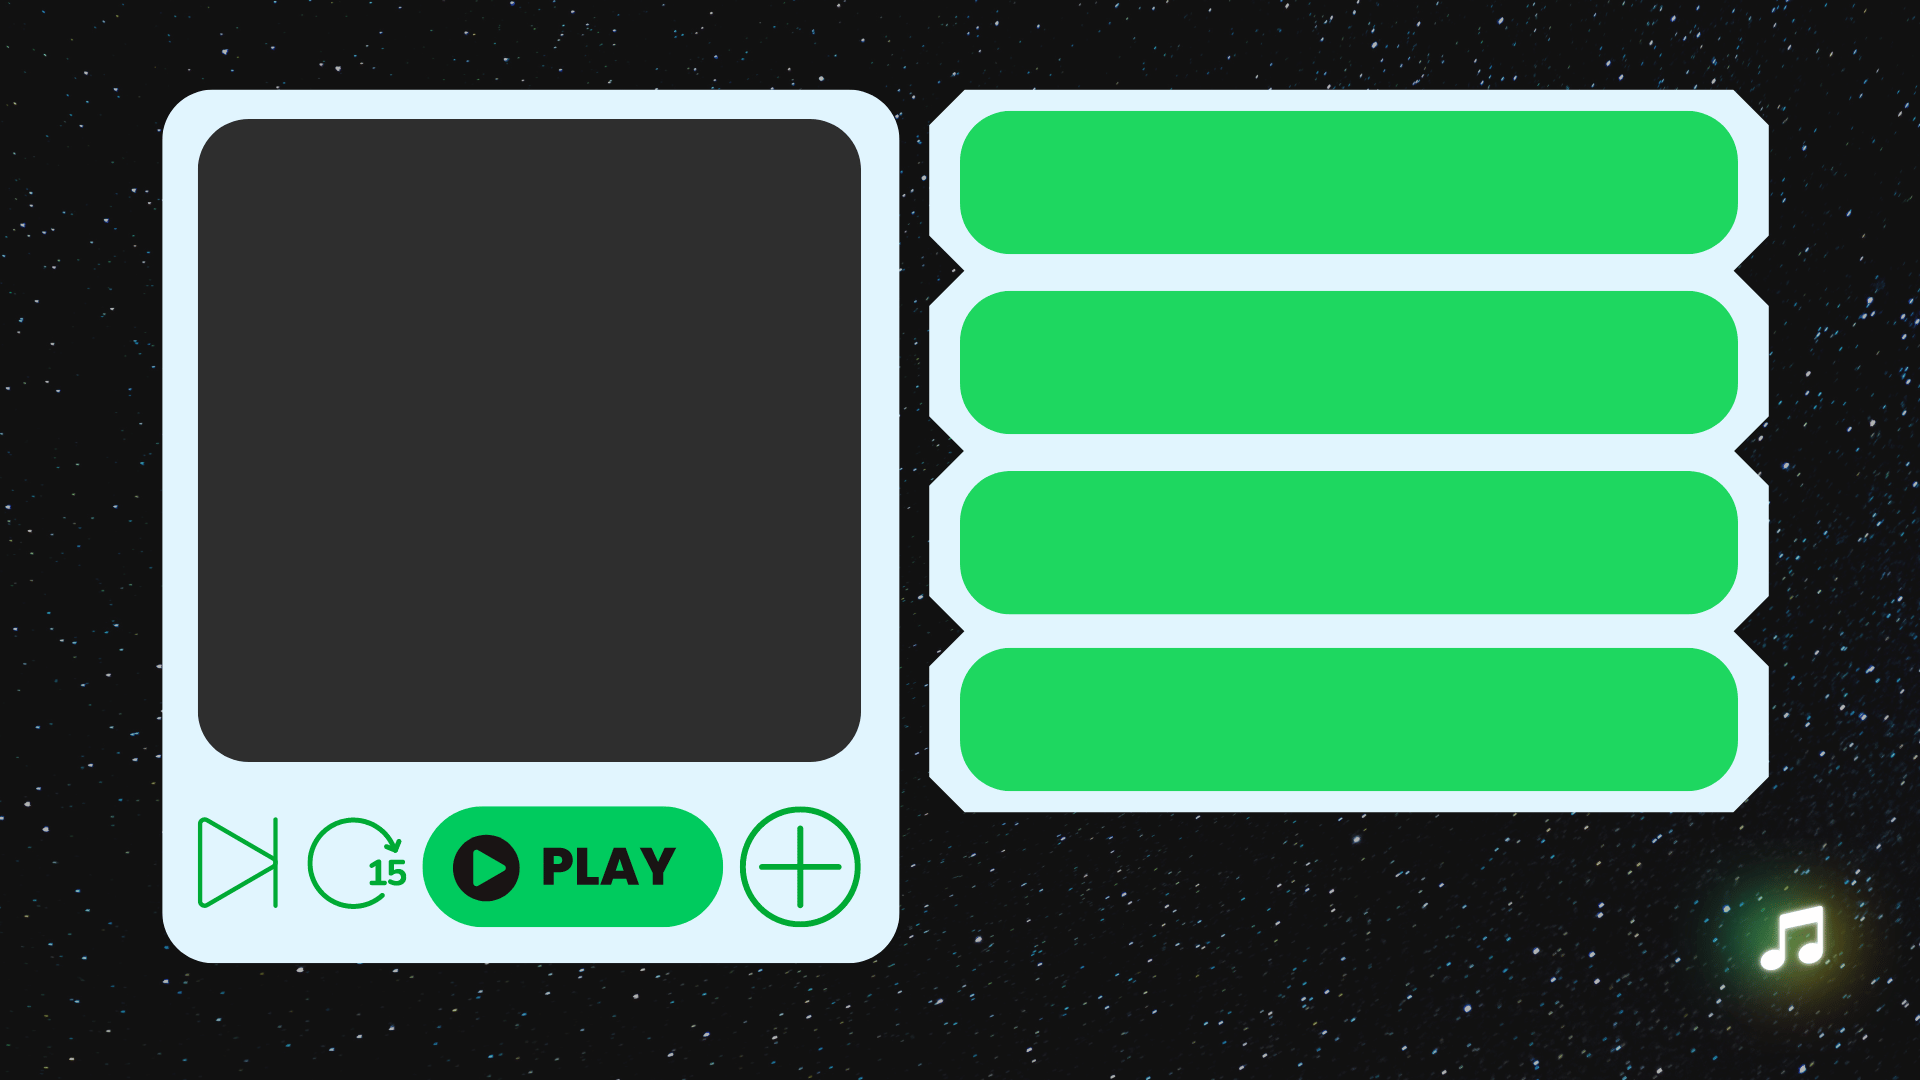
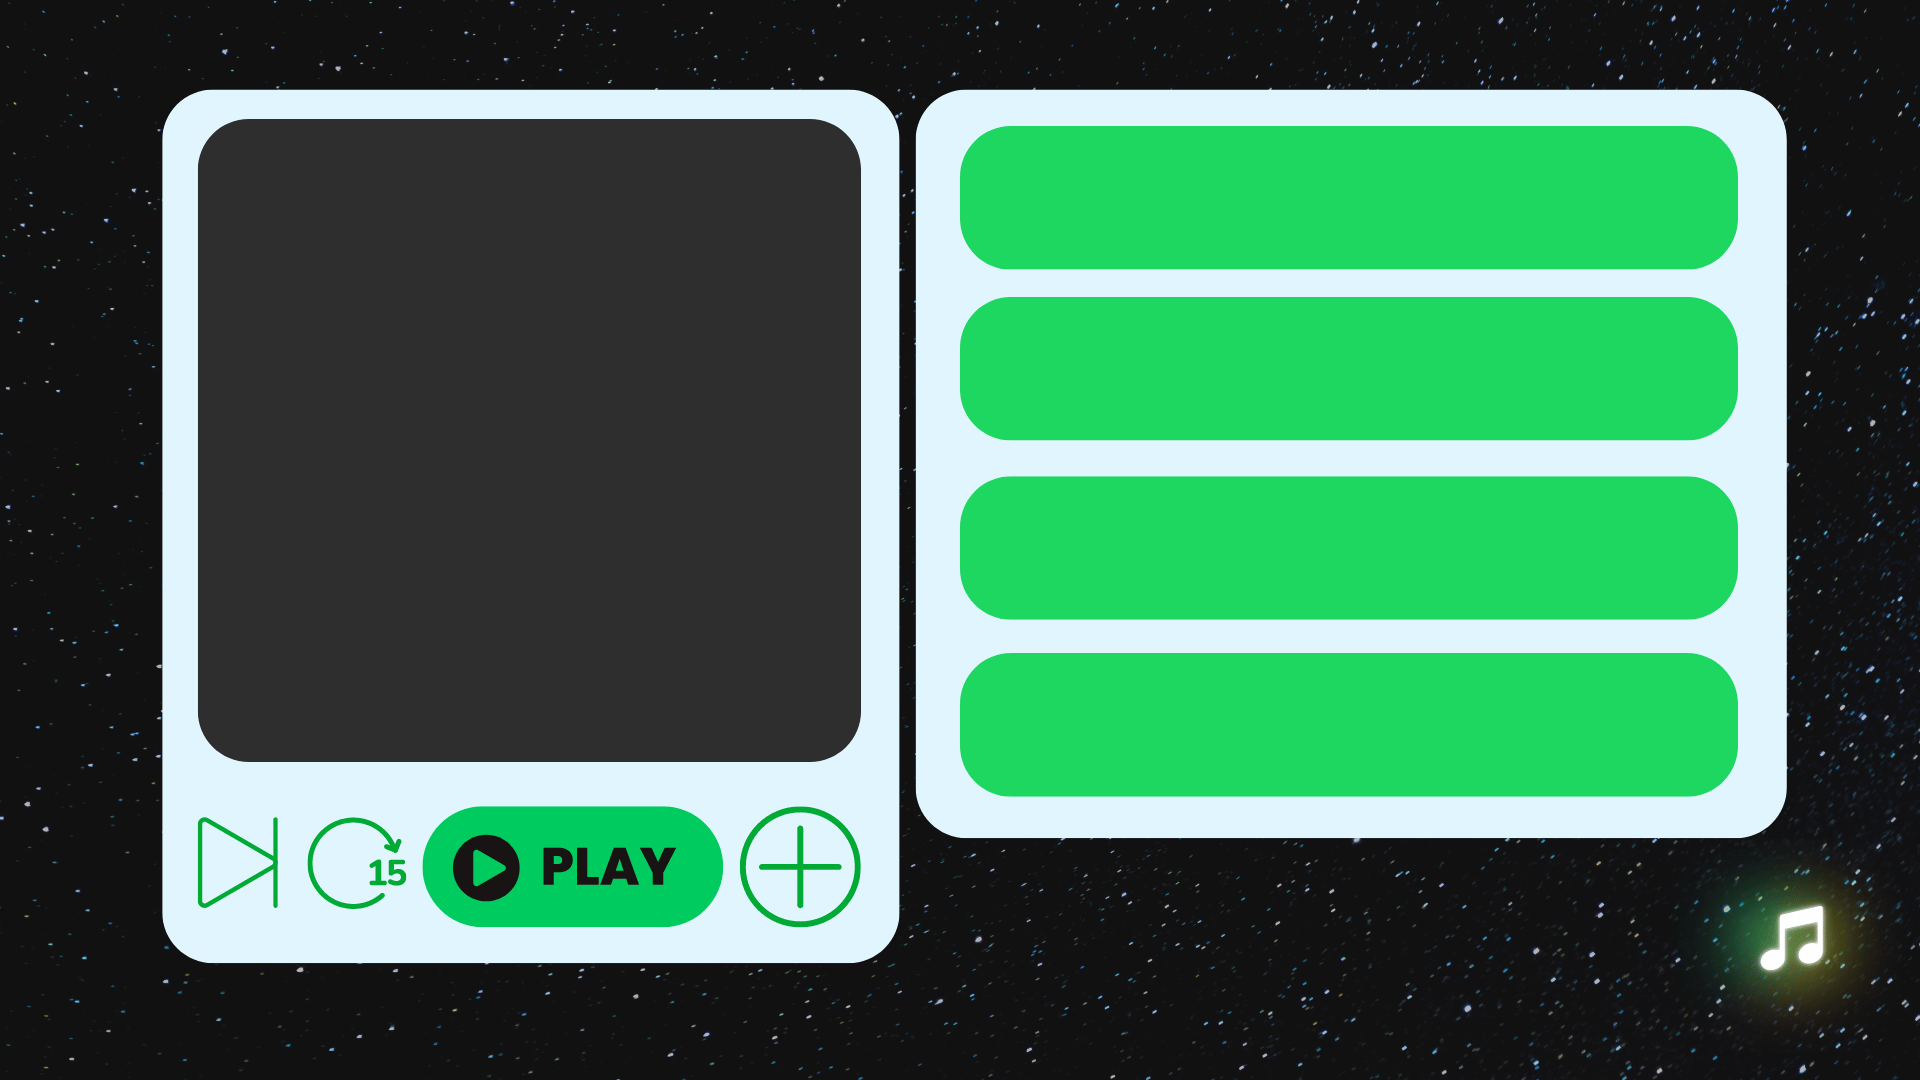
Added spotify explorer

Changed region(s): [[0.4688, 0.0917, 0.9375, 0.7944]]

diff --git a/src/index.tsx b/src/index.tsx
@@ -567,6 +567,7 @@ app.frame('/farcaster-casts-details', async (c) => {
 app.frame("/spotify-explorer", async (c) => {
   const { buttonValue, inputText, frameData, status } = c
 
+  let query;
   let artist;
   let songCover;
   let songName;
@@ -582,7 +583,12 @@ app.frame("/spotify-explorer", async (c) => {
   const time = new Date().getTime();
 
   if (status === "response") {
-      const query = buttonValue === "random" ? generatedWords : inputText || "Telk Qadeya";
+      if (!buttonValue?.startsWith('next-page-')) {
+        query = buttonValue === "random" ? generatedWords : inputText || "Telk Qadeya";
+      } else {
+        query = buttonValue?.split('-')[3];
+      }
+
       const options = {
         method: 'GET',
         url: 'https://spotify23.p.rapidapi.com/search/',
@@ -601,7 +607,8 @@ app.frame("/spotify-explorer", async (c) => {
       
       try {
         const response = await axios.request(options);
-        const songData = response.data.topResults.items[0].data;
+        const indexOfData = buttonValue === "random" || buttonValue === "search" ? 0 :  buttonValue?.startsWith('next-page-2-') ? 2 : 1;
+        const songData = response.data.topResults.items[indexOfData].data;
         const songNameData = (songData.name).length > 13 ? (songData.name).slice(0, 12) + '...' : songData.name;
         const songCoverURL = songData.albumOfTrack.coverArt.sources[0].url;
         const songDurationData = songData.duration.totalMilliseconds;
@@ -631,15 +638,25 @@ app.frame("/spotify-explorer", async (c) => {
   }
    
    const buttons = status === 'initial' ? [
-      <TextInput placeholder="Enter song name, artist or album" />,
+      <TextInput placeholder="Enter Song name" />,
       <Button value={"search"}>Search</Button>,
       <Button value={"random"}>Random Song</Button>,
-   ] : [
+   ] : buttonValue?.startsWith('next-page-') ?
+           buttonValue.startsWith('next-page-1') ?   [
+             <Button.Link href={spotifyLink}>Listen on Spotify</Button.Link>,
+             <Button value={`next-page-2-${query}`}>Next</Button>,
+             <Button.Reset>Reset</Button.Reset>,
+          ] : [
+             <Button.Link href={spotifyLink}>Listen on Spotify</Button.Link>,
+             <Button.Reset>Reset</Button.Reset>,
+          ]
+   : [
       <Button.Link href={spotifyLink}>Listen on Spotify</Button.Link>,
-      <Button value={"page-2"}>Next </Button>,
+      <Button value={`next-page-1-${query}`}>Next</Button>,
       <Button.Reset>Reset</Button.Reset>,
    ]
 
+   console.log('buttonValue :', buttonValue)
    return c.res({
       image: (
         status === 'initial' ?
@@ -649,8 +666,8 @@ app.frame("/spotify-explorer", async (c) => {
         : 
          <div style={{ color: 'white', padding:'20px', display: 'flex', backgroundColor: '#0E172A', height: '100vh', alignItems: 'center', justifyContent: 'center' }}>
            <img width={1200} height={650} src="https://jolly-diverse-herring.ngrok-free.app/bg/explorer-spotify-details.png" style={{position: 'absolute', top: '0%', left: '0%'}} />
-          <img width={420} height={410} src={songCover} style={{position: 'absolute', top: '11%', left: '10%', borderRadius: '25px'}} />
-          <p style={{position: 'absolute', top: '11%', left: '53%', fontSize: 43}}>{songName}</p>
+          <img width={425} height={410} src={songCover} style={{position: 'absolute', top: '11%', left: '10%', borderRadius: '25px'}} />
+          <p style={{position: 'absolute', top: '12%', left: '53%', fontSize: 43}}>{songName}</p>
           <p style={{position: 'absolute', top: '30%', left: '53%', fontSize: 45}}>{artist}</p>
           <p style={{position: 'absolute', top: '48%', left: '53%', fontSize: 43}}>{songDuration}</p>
           <p style={{position: 'absolute', top: '67%', left: '53%', fontSize: 39}}>{songId}</p>
